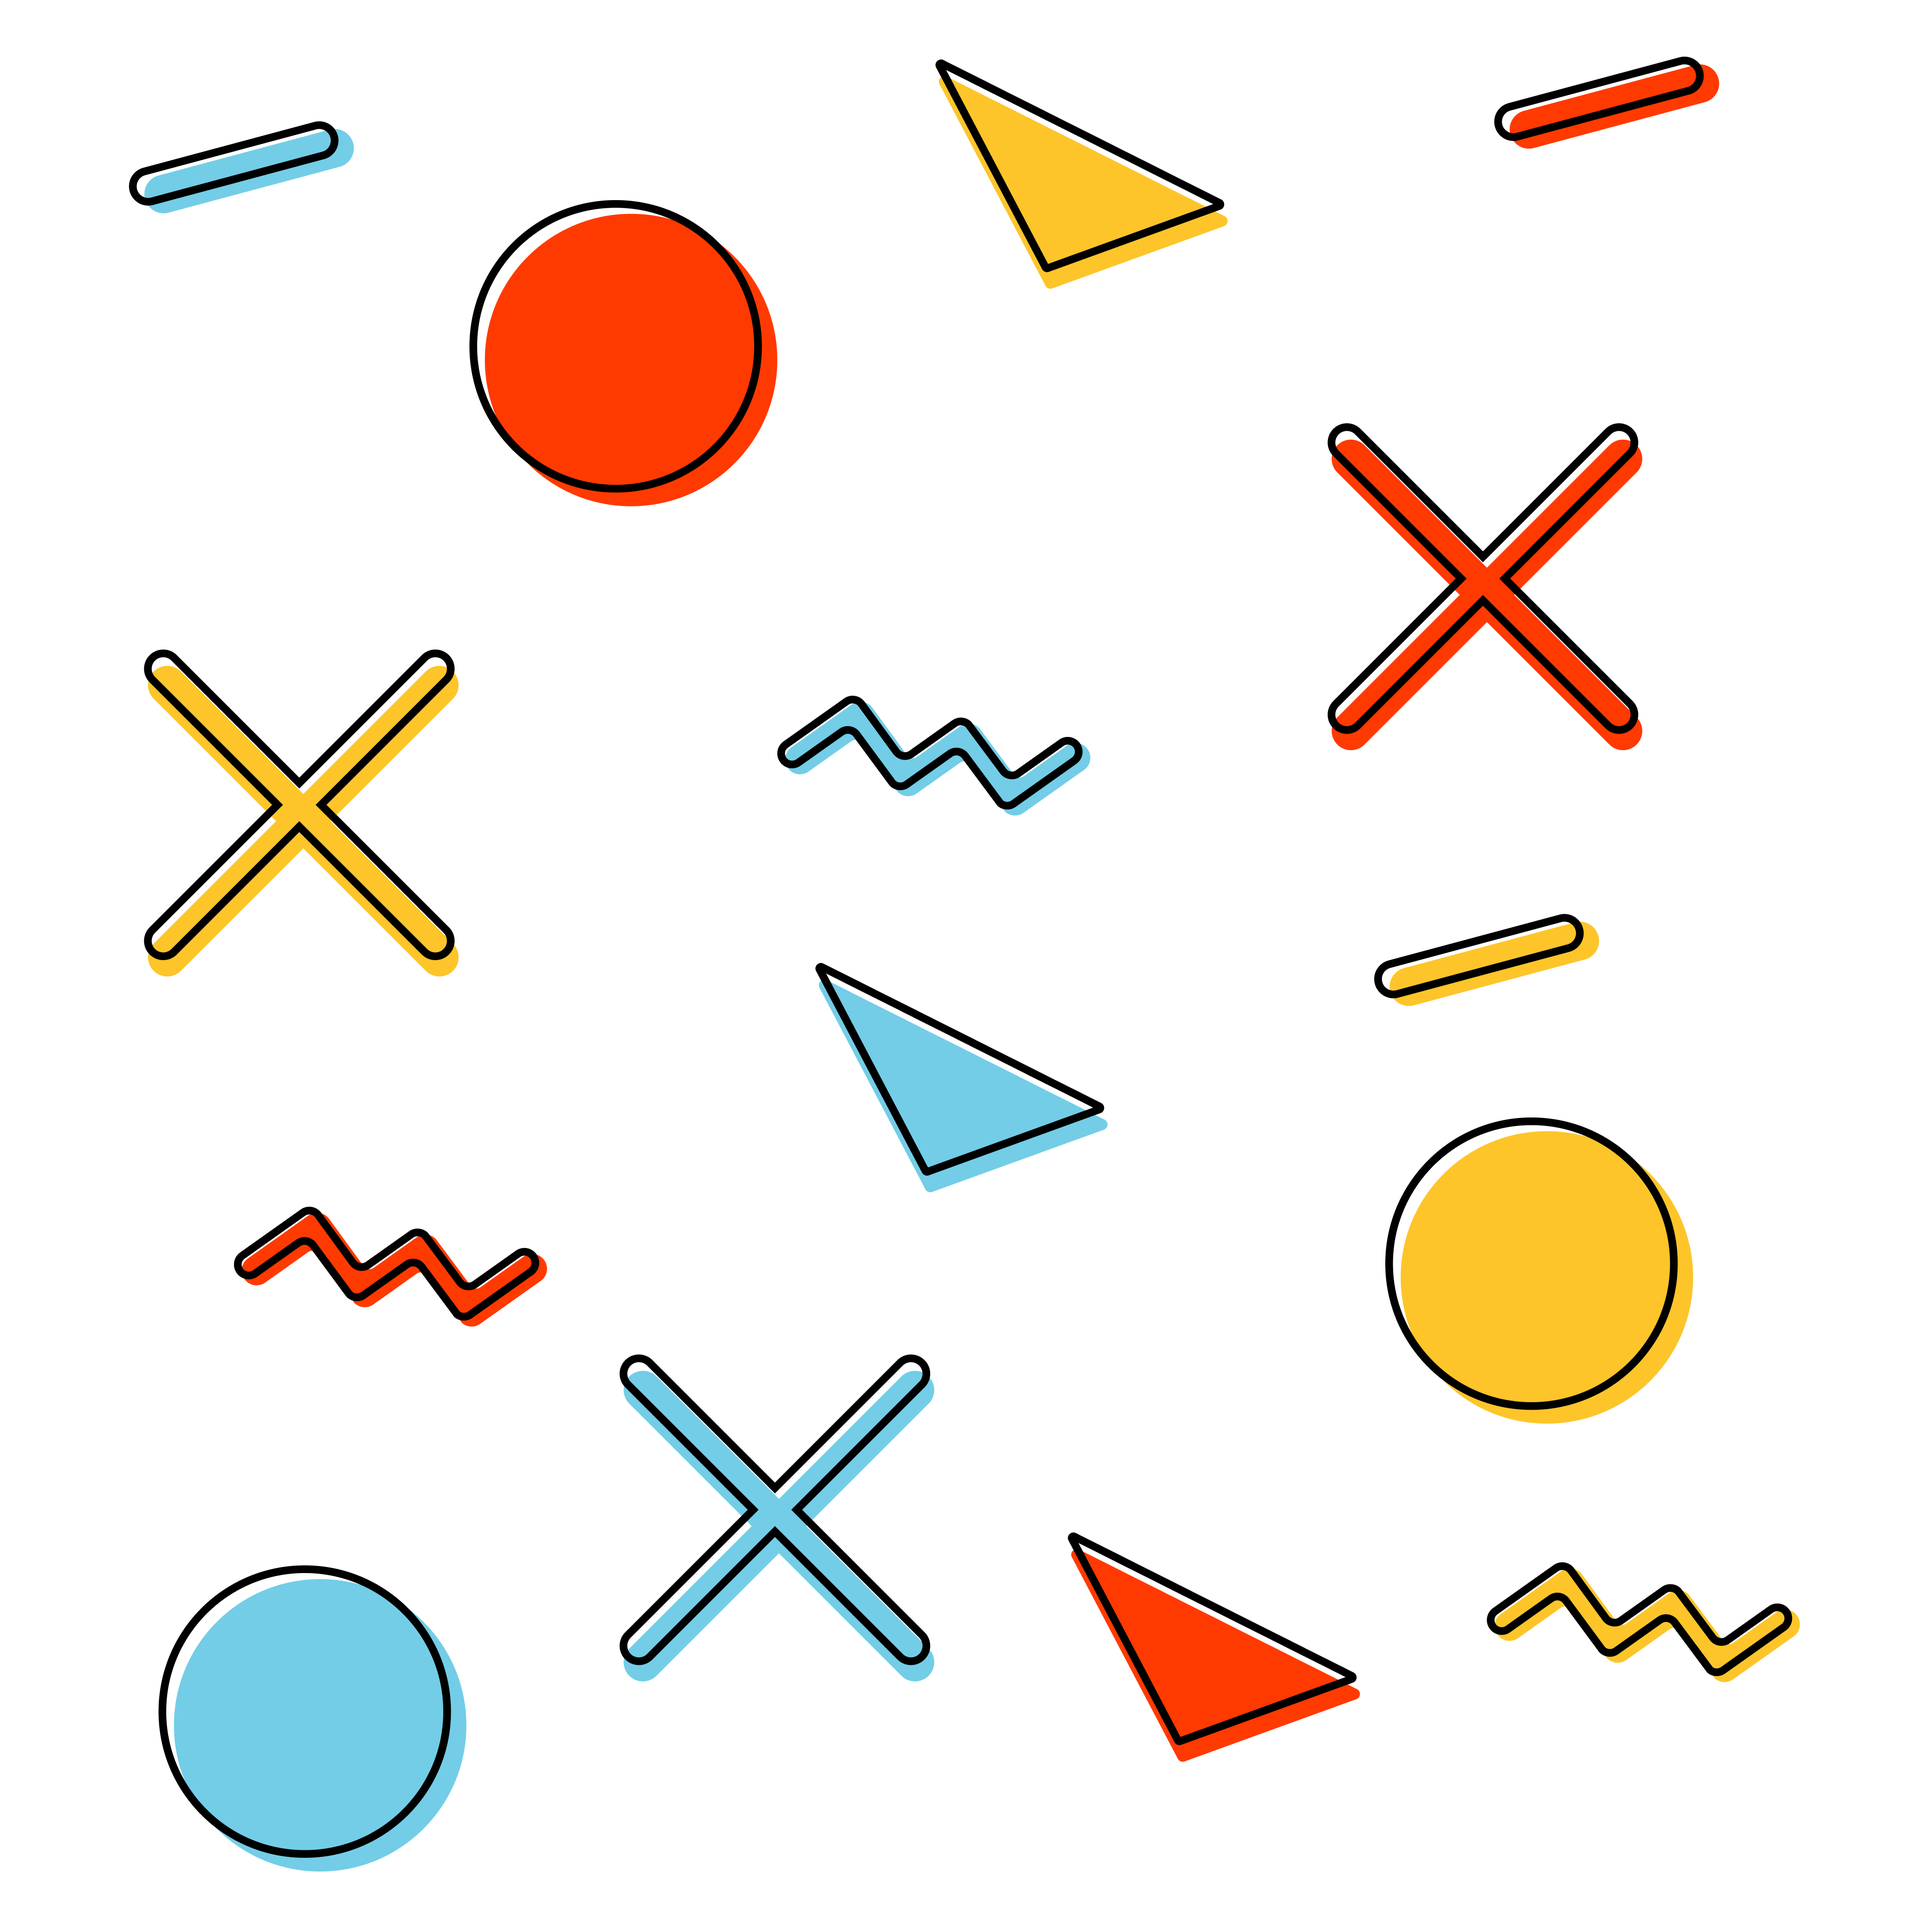
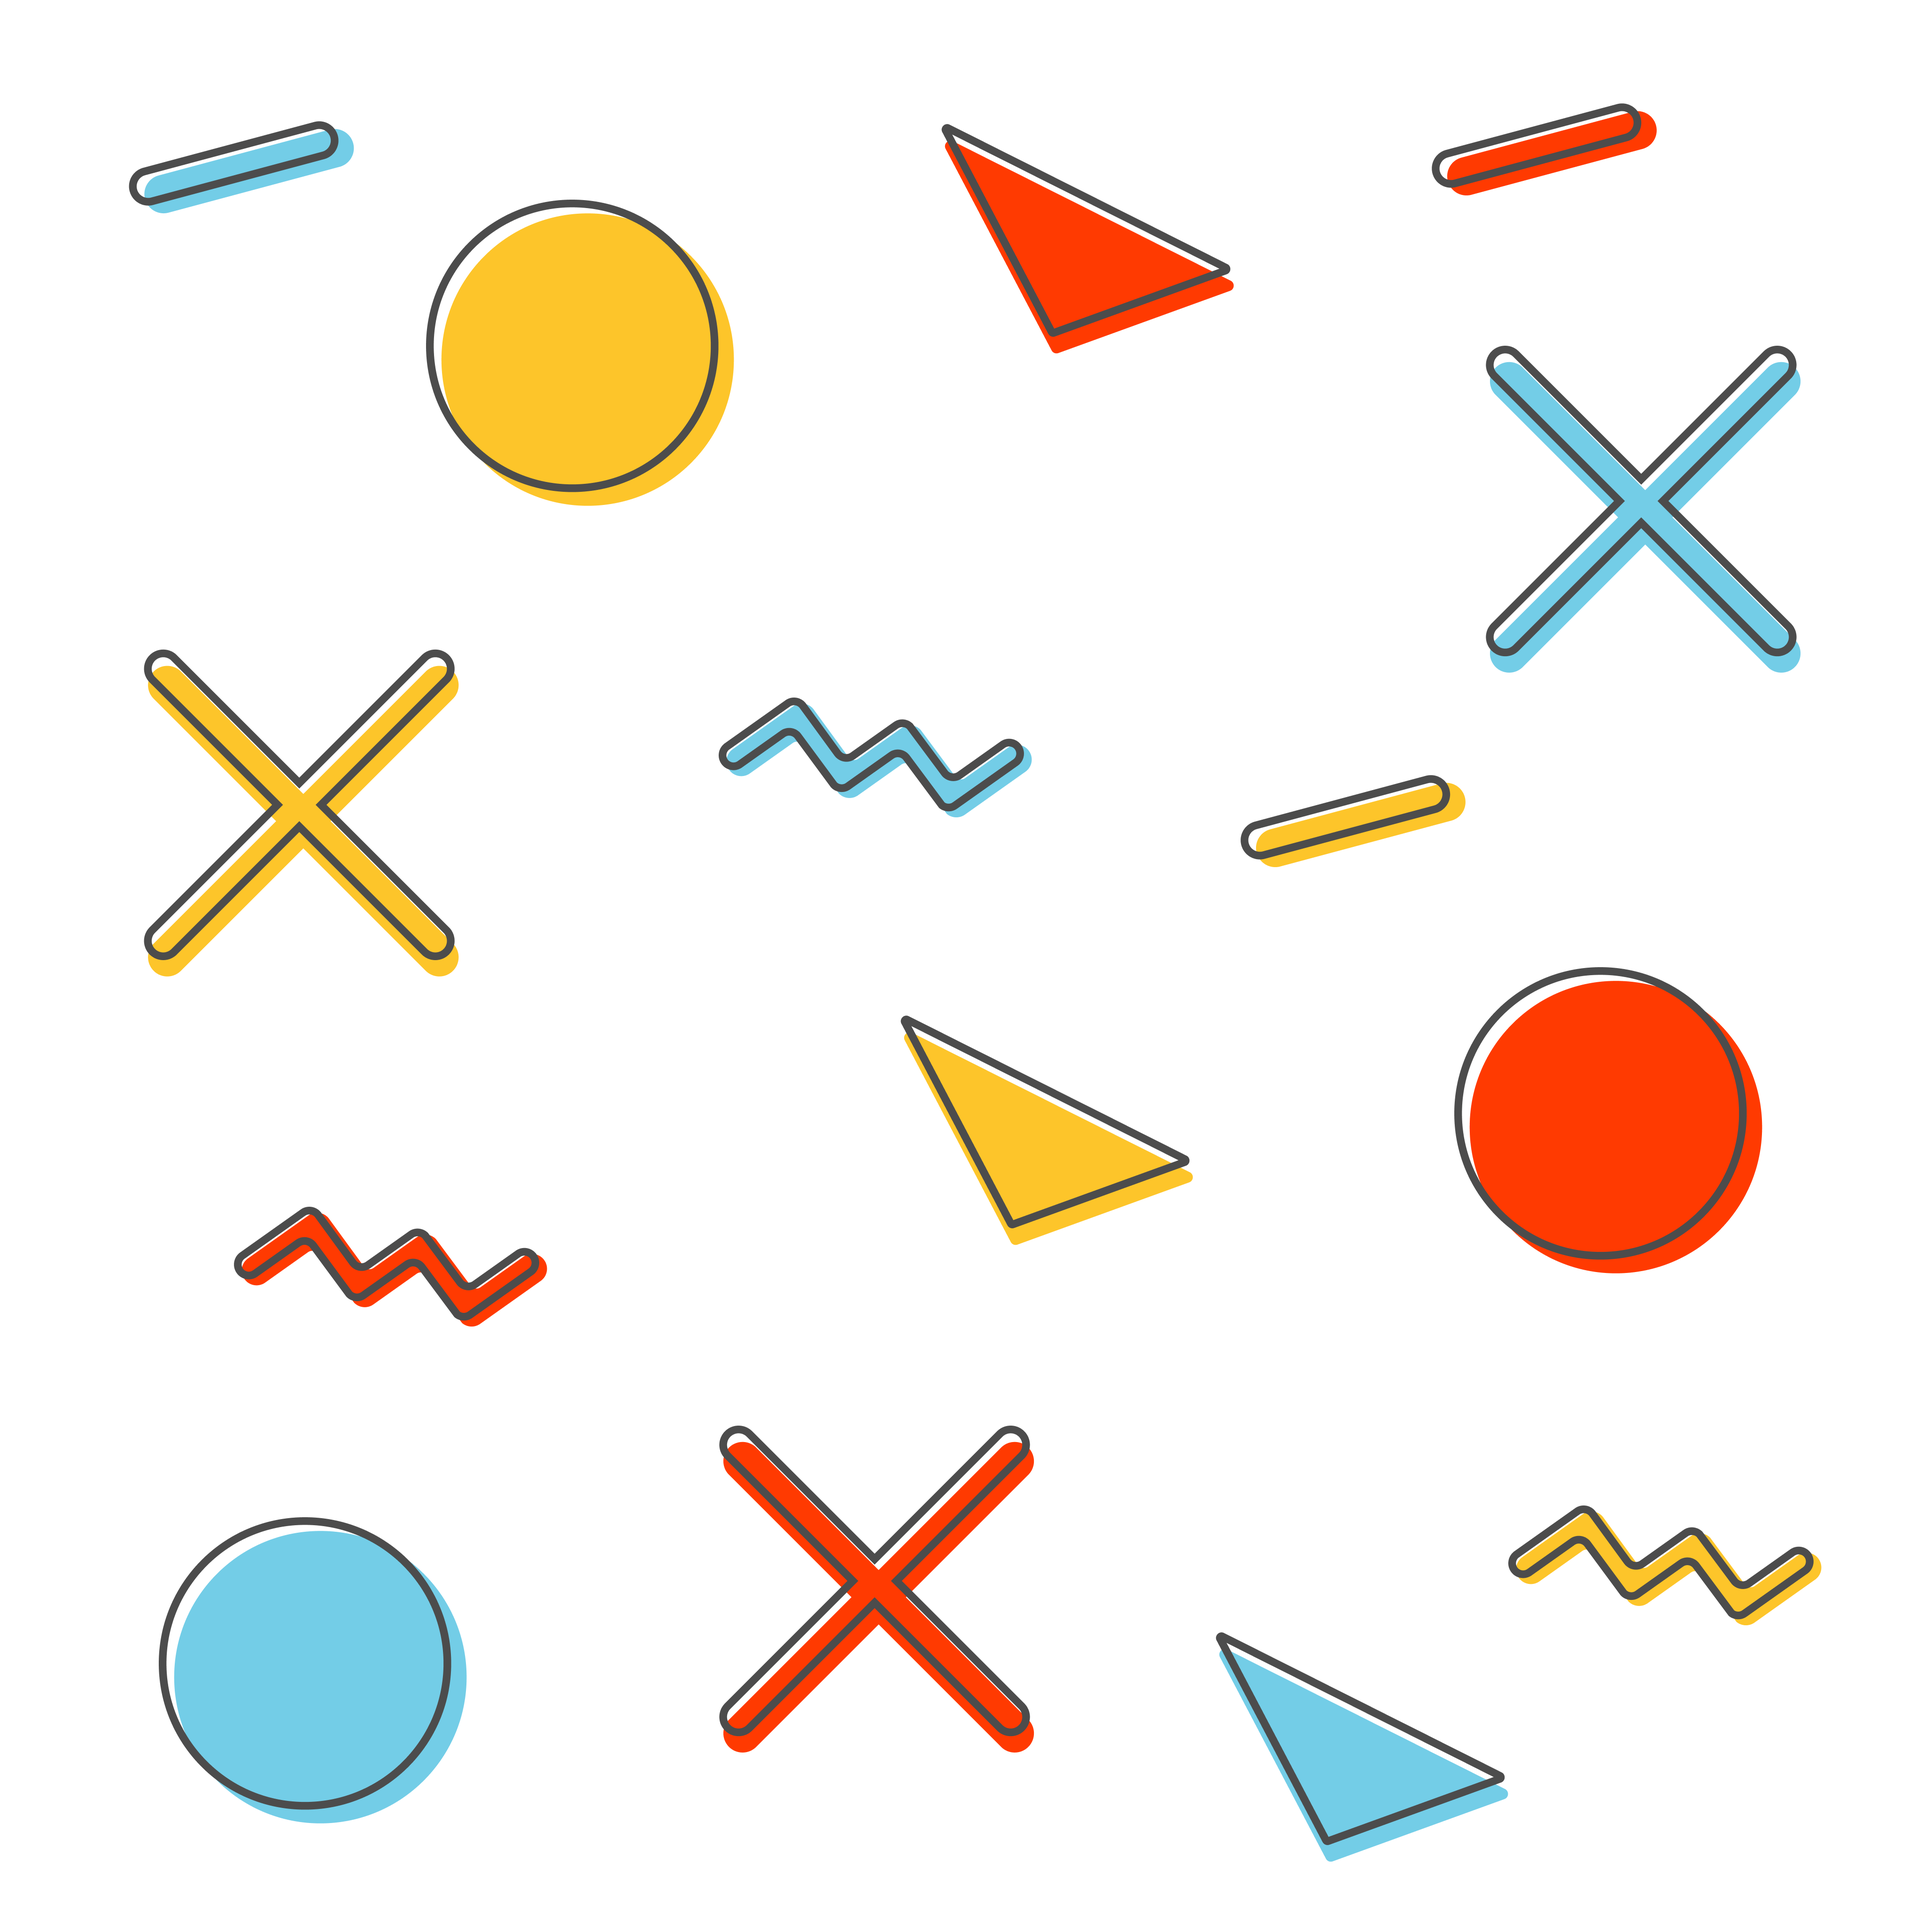
Layout fix

diff --git a/src/components/layout.css b/src/components/layout.css
@@ -29,7 +29,6 @@ html {
   font-family: "Apercu-Med", sans-serif;
   -ms-text-size-adjust: 100%;
   -webkit-text-size-adjust: 100%;
-  /*background-color: #99CCFF;*/
 }
 body {
   margin: 0;
@@ -679,8 +678,6 @@ select {
 
 button,
 input[type="submit"] {
-  background-color: #99CCFF;
-  color: white;
   border: none;
   text-decoration: none;
   padding: .5rem .75rem;
@@ -689,13 +686,13 @@ input[type="submit"] {
 
 /* Custom classes */
 html {
-  background: url("../images/shapes_bg.png") 33% -16.75%/1750px repeat;
+  background: url("../images/shapes_bg.png") 65% 26%/1750px repeat;
 }
 
 @media only screen and (max-width: 975px) {
   html {
     background-size: 1750px;
-    background-position: 12% 16%;
+    background-position: 17% 8%;
   }
 }
 
@@ -717,7 +714,10 @@ html {
   padding: 2rem;
 }
 
-.paperContent h3 {
+.paperContent h3,
+.paperContent h4 {
+  font-family: "Apercu-Bold";
+} {
   font-family: "Apercu-Bold";
 }
 
@@ -758,34 +758,6 @@ html {
   align-self: center;
   background: linear-gradient(45deg, #99CCFF, #ffff 90%);
   font-family: "Apercu-Bold";
-}
-
-.card {
-  background-color: rgba(153, 204, 255, .99); 
-  padding: 1.5em 2em;
-  border-radius: 10px;
-  display: inline-block;
-  margin: 0 auto;
-}
-
-.shareCard {
-  float: right;
-  max-width: 19em;
-  margin-left: 1em;
-  margin-bottom: 2em;
-}
-
-.shareCard .shareLink {
-  text-decoration: underline;
-  margin-bottom: .5em;
-}
-
-@media only screen and (max-width: 975px) {
-  .shareCard {
-    margin-left: 0em;
-    float: none;
-    margin-bottom: 2em;
-  }
 }
 
 .block {
@@ -909,6 +881,10 @@ html {
   font-family: "Apercu-Bold";
 }
 
+.authCard .MuiCardContent-root:last-child {
+  padding-bottom: 16px;
+}
+
 .authCard form {
   display: flex;
   margin-bottom: 0;
@@ -916,14 +892,14 @@ html {
   flex-direction: column;
 }
 
-.authCardActions {
-  margin-top: .75rem;
-}
-
 .authCard form .MuiFormHelperText-root,
 .authCard form .MuiInputLabel-root,
 .authCard form .MuiInputBase-input {
   font-family: "Apercu-Medium";
+}
+
+.authCardActions {
+  margin-top: .75rem;
 }
 
 .authCard form .MuiInputLabel-root.Mui-focused {
@@ -937,8 +913,6 @@ html {
 .authCard form .MuiButton-root {
   align-self: center;
   margin: 0 auto;
-  /*background: #99CCFF;
-  color: white;*/
   font-family: "Apercu-Bold";
 }
 

diff --git a/src/services/auth.js b/src/services/auth.js
@@ -166,7 +166,7 @@ const newUserFail = (thisPage,email,error) => {
     thisPage.setState({
       authFormShowLogin: true,
       emailError: false,
-      emailHelpText: "Account exists, try logging in",
+      emailHelpText: "Account exists, try again",
       passwordHelpText: "",
       passwordError: false
     })
@@ -176,7 +176,7 @@ const newUserFail = (thisPage,email,error) => {
     thisPage.setState({
       authFormShowLogin: true,
       emailError: false,
-      emailHelpText: "Email confirmed, try logging in",
+      emailHelpText: "Email confirmed, try again",
       passwordHelpText: "",
       passwordError: false
     })
